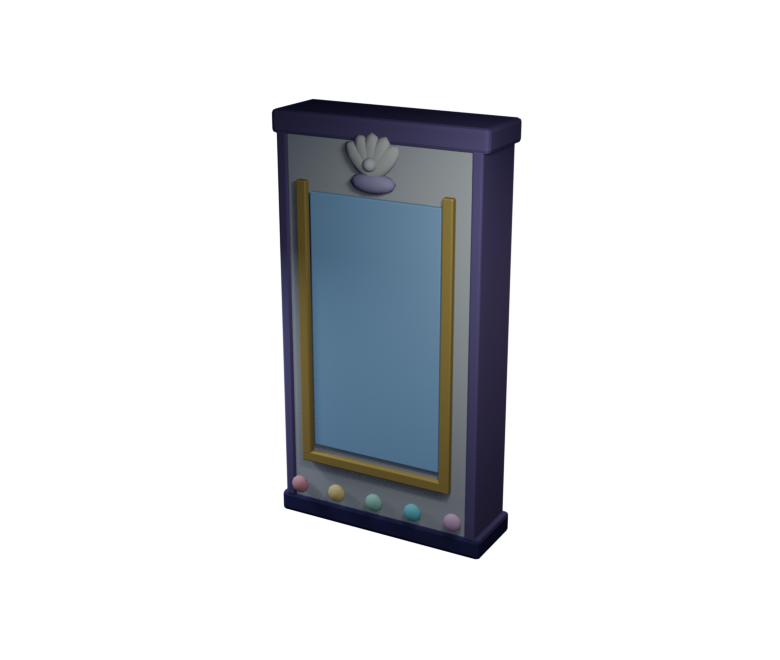
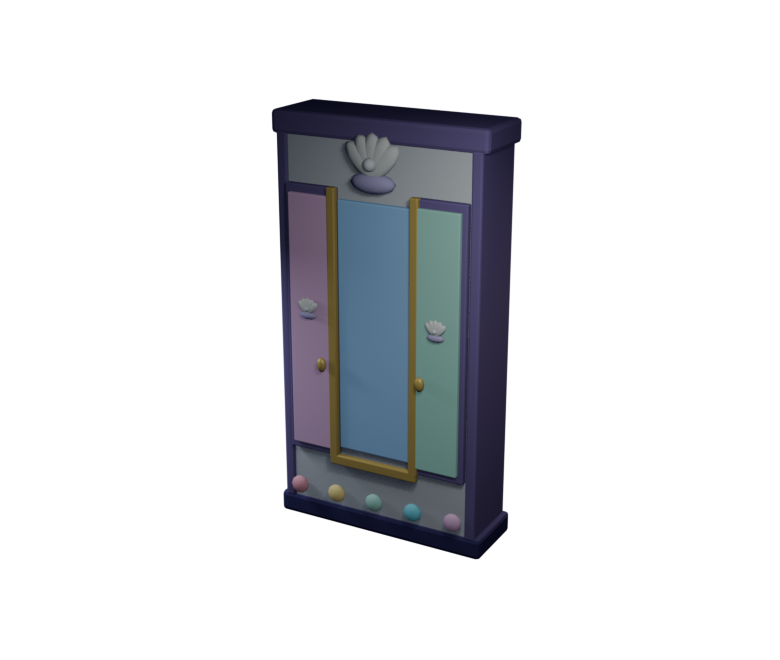
art: finish castle role readability polish

Changed region(s): [[0.3692, 0.2727, 0.6154, 0.7576]]

diff --git a/tools/build_pearl_castle_kit.py b/tools/build_pearl_castle_kit.py
@@ -32,6 +32,7 @@ bpy.context.preferences.filepaths.save_version = 0
 
 PALETTE = {
 	"ink": (0.10, 0.08, 0.22, 1.0),
+	"midnight": (0.11, 0.18, 0.32, 1.0),
 	"plum": (0.31, 0.22, 0.43, 1.0),
 	"lavender": (0.66, 0.55, 0.76, 1.0),
 	"pearl_shadow": (0.72, 0.70, 0.79, 1.0),
@@ -852,17 +853,28 @@ def build_bedside_table() -> bpy.types.Object:
 
 def build_wardrobe() -> bpy.types.Object:
 	r = root("pearl_shell_wardrobe")
-	# Pearl owns the cabinet silhouette. Dark trim is structural, not a sealed
-	# wrapper, so side views no longer collapse into one navy rectangle.
+	# A central dress-up mirror is flanked by two unmistakable cabinet doors.
+	# The earlier full-width mirror passed material checks but did not read as a
+	# wardrobe in the gameplay view.
 	rounded_box("Wardrobe_PearlBody", (0.0, 0.0, 6.55), (6.65, 2.12, 12.75), MATS["pearl"], r, 0.32)
 	rounded_box("Wardrobe_InkPlinth", (0.0, 0.0, 0.34), (7.10, 2.28, 0.68), MATS["ink"], r, 0.22)
 	rounded_box("Wardrobe_PlumCornice", (0.0, 0.0, 12.78), (7.10, 2.28, 0.72), MATS["plum"], r, 0.24)
 	for x in (-3.20, 3.20):
 		rounded_box("Wardrobe_PlumSide", (x, -0.04, 6.55), (0.34, 2.18, 11.90), MATS["plum"], r, 0.10)
-	rounded_box("Wardrobe_Mirror", (0.0, -1.14, 6.75), (4.35, 0.18, 8.15), MATS["sky"], r, 0.18)
-	for x in (-2.42, 2.42):
-		rounded_box("Wardrobe_GoldFrame", (x, -1.24, 6.75), (0.34, 0.22, 8.82), MATS["gold"], r, 0.09)
-	rounded_box("Wardrobe_GoldSill", (0.0, -1.24, 2.26), (5.18, 0.22, 0.34), MATS["gold"], r, 0.09)
+	for index, (x, color) in enumerate(((-2.16, "rose"), (2.16, "mint"))):
+		rounded_box("Wardrobe_DoorFrame_%d" % index, (x, -1.15, 6.75),
+			(1.72, 0.24, 8.55), MATS["plum"], r, 0.16)
+		rounded_box("Wardrobe_Door_%d" % index, (x, -1.31, 6.75),
+			(1.38, 0.18, 8.05), MATS[color], r, 0.15)
+		shell_fan("Wardrobe_DoorShell_%d" % index, (x, -1.47, 7.20), 0.62, r,
+			lobe_mat=MATS["pearl_light"], shadow_mat=MATS["lavender"])
+		ellipsoid("Wardrobe_DoorHandle_%d" % index,
+			(x - (0.48 if x > 0.0 else -0.48), -1.54, 5.55),
+			(0.16, 0.12, 0.24), MATS["gold"], r)
+	rounded_box("Wardrobe_Mirror", (0.0, -1.18, 6.75), (2.42, 0.20, 7.90), MATS["sky"], r, 0.18)
+	for x in (-1.38, 1.38):
+		rounded_box("Wardrobe_GoldFrame", (x, -1.30, 6.75), (0.28, 0.22, 8.62), MATS["gold"], r, 0.08)
+	rounded_box("Wardrobe_GoldSill", (0.0, -1.30, 2.40), (3.00, 0.22, 0.32), MATS["gold"], r, 0.09)
 	shell_fan("Wardrobe_Crest", (0.0, -1.27, 11.72), 1.62, r,
 		lobe_mat=MATS["pearl_light"], shadow_mat=MATS["lavender"])
 	for index, color in enumerate(("coral", "yellow", "mint", "aqua", "rose")):
@@ -947,6 +959,40 @@ def build_opera_gate() -> bpy.types.Object:
 		ellipsoid("Opera_Footlight_%d" % index,
 			(-2.20 + float(index) * 1.10, -1.18, 0.92),
 			(0.22, 0.18, 0.22), MATS[color], r)
+	return r
+
+
+def build_opera_vista() -> bpy.types.Object:
+	"""An opaque magical destination field for the Opera threshold."""
+	r = root("pearl_opera_vista")
+	outer = [(-2.72, 0.72), (-2.72, 5.36)]
+	inner = [(-2.42, 0.88), (-2.42, 5.28)]
+	for index in range(15):
+		a = math.pi - math.pi * float(index) / 14.0
+		outer.append((math.cos(a) * 2.72, 5.36 + math.sin(a) * 2.72))
+		inner.append((math.cos(a) * 2.42, 5.28 + math.sin(a) * 2.42))
+	outer.append((2.72, 0.72))
+	inner.append((2.42, 0.88))
+	panel_xz("OperaVista_Ink", outer, 0.30, (0.0, 0.34, 0.0), MATS["ink"], r, 0.10)
+	panel_xz("OperaVista_Midnight", inner, 0.24, (0.0, 0.12, 0.0), MATS["midnight"], r, 0.08)
+	# Cool nested stage-light bands create depth without exposing the wall behind.
+	for radius, color in ((2.08, "aqua"), (1.72, "mint"), (1.36, "rose")):
+		arc_tube("OperaVista_Arch_%s" % color, (0.0, -0.08, 5.20),
+			radius, 0.11, MATS[color], r, steps=15)
+	# A shell-shaped footlight and offset stars avoid a flat portal rectangle.
+	shell_fan("OperaVista_FloorShell", (0.0, -0.10, 1.42), 1.18, r,
+		lobe_mat=MATS["pearl_light"], shadow_mat=MATS["lavender"])
+	for index, (x, z, scale, color) in enumerate((
+		(-1.62, 3.20, 0.34, "yellow"), (1.54, 4.18, 0.28, "aqua"),
+		(-0.82, 6.18, 0.22, "rose"), (0.92, 2.68, 0.20, "mint"),
+	)):
+		points = []
+		for point_index in range(10):
+			a = math.pi * 0.5 + float(point_index) * math.pi / 5.0
+			radius = scale if point_index % 2 == 0 else scale * 0.44
+			points.append((x + math.cos(a) * radius, z + math.sin(a) * radius))
+		panel_xz("OperaVista_Star_%d" % index, points, 0.16,
+			(0.0, -0.12, 0.0), MATS[color], r, 0.04)
 	return r
 
 
@@ -1070,16 +1116,42 @@ def build_pantry_shelf() -> bpy.types.Object:
 		rounded_box("PantryShelf_Post", (x, 0.0, 4.0), (0.46, 1.55, 8.0), MATS["pearl"], r, 0.14)
 	for z in (0.42, 3.15, 5.85, 8.15):
 		rounded_box("PantryShelf_Board", (0.0, 0.0, z), (10.8, 1.82, 0.42), MATS["plum"], r, 0.14)
-	for row, z in enumerate((1.22, 3.94, 6.66)):
-		for index, color in enumerate(("coral", "yellow", "mint", "sky")):
-			x = -3.72 + float(index) * 2.48
-			jar_height = 1.02 + float((row + index) % 3) * 0.16
-			cylinder("PantryJar_%d_%d" % (row, index), (x, -0.18, z), 0.50, jar_height,
-				MATS[color], r, 14)
-			cylinder("PantryJarLid_%d_%d" % (row, index), (x, -0.18, z + jar_height * 0.5 + 0.10), 0.54, 0.20,
-				MATS["gold"], r, 14)
-			ellipsoid("PantryJarPearl_%d_%d" % (row, index),
-				(x, -0.70, z), (0.16, 0.09, 0.16), MATS["pearl_light"], r)
+	# Bottom shelf: labeled parcels and a soft provision sack.
+	for index, (x, color, width, height) in enumerate((
+		(-3.72, "coral", 1.55, 1.28), (-1.34, "yellow", 1.90, 1.52),
+		(1.30, "mint", 1.62, 1.18),
+	)):
+		z = 0.66 + height * 0.5
+		rounded_box("Pantry_Parcel_%d" % index, (x, -0.10, z),
+			(width, 1.32, height), MATS[color], r, 0.22)
+		ellipsoid("Pantry_ParcelLabel_%d" % index,
+			(x, -0.82, z), (0.20, 0.10, 0.20), MATS["pearl_light"], r)
+	ellipsoid("Pantry_Sack", (3.62, -0.06, 1.56), (1.08, 0.72, 1.18), MATS["lavender"], r)
+	tube("Pantry_SackTie", [(3.30, -0.60, 2.45), (3.62, -0.72, 2.70),
+		(3.94, -0.60, 2.45)], 0.08, MATS["gold"], r)
+	# Middle shelf: two handled baskets flank one tall bottle.
+	for index, (x, color, width) in enumerate(((-3.16, "rose", 2.35), (2.78, "aqua", 2.15))):
+		rounded_box("Pantry_Basket_%d" % index, (x, -0.10, 4.02),
+			(width, 1.36, 1.34), MATS[color], r, 0.24)
+		tube("Pantry_BasketHandle_%d" % index,
+			[(x - width * 0.28, -0.86, 4.34), (x, -0.98, 4.92),
+				(x + width * 0.28, -0.86, 4.34)], 0.07, MATS["gold"], r)
+	cone("Pantry_Bottle", (0.02, -0.08, 4.18), 0.56, 0.34, 1.86, MATS["mint"], r, 14)
+	cylinder("Pantry_BottleStopper", (0.02, -0.08, 5.20), 0.30, 0.22, MATS["gold"], r, 12)
+	# Top shelf keeps jars, but varies silhouette, scale, spacing, and color.
+	for index, (x, color, radius, height) in enumerate((
+		(-4.02, "sky", 0.44, 1.28), (-2.18, "yellow", 0.58, 1.62),
+		(0.08, "rose", 0.48, 1.18), (2.08, "mint", 0.62, 1.48),
+		(4.08, "coral", 0.42, 1.06),
+	)):
+		z = 6.08 + height * 0.5
+		cylinder("Pantry_Jar_%d" % index, (x, -0.12, z), radius, height,
+			MATS[color], r, 14)
+		cylinder("Pantry_JarLid_%d" % index,
+			(x, -0.12, z + height * 0.5 + 0.10), radius + 0.05, 0.20,
+			MATS["gold"], r, 14)
+		ellipsoid("Pantry_JarLabel_%d" % index,
+			(x, -0.72, z), (0.16, 0.09, 0.16), MATS["pearl_light"], r)
 	shell_fan("PantryShelf_Crest", (0.0, -0.92, 8.20), 1.25, r,
 		lobe_mat=MATS["pearl_light"], shadow_mat=MATS["lavender"])
 	return r
@@ -1268,6 +1340,7 @@ ASSETS = {
 	"pearl_music_bar_6": build_music_bar(6),
 	"pearl_music_mallet_stand": build_music_mallet_stand(),
 	"pearl_opera_gate": build_opera_gate(),
+	"pearl_opera_vista": build_opera_vista(),
 	"pearl_storage_barrel": build_storage_barrel(),
 	"pearl_storage_crate": build_storage_crate(),
 	"pearl_provisions_hutch": build_provisions_hutch(),

diff --git a/CASTLE_PEARL_ART_AUDIT_2026-07-18.md b/CASTLE_PEARL_ART_AUDIT_2026-07-18.md
@@ -230,6 +230,40 @@ bays, aligns the treasure arch along the actual review ray, changes the Opera
 field to deep aqua-plum, and adds a nineteenth wardrobe-front capture. Rejected
 frames are retained under `runtime_rejected_37c238a/`.
 
+## Sixth Runtime Review And Role-Readability Correction
+
+CI run `29667302052` was fully green at commit `affb617`, including import,
+the full analyzer, all trusted gameplay probes, and nineteen Mobile castle
+captures. Human inspection accepted the Grand Hall, throne focal area, Toy
+Room, Cloud Lounge, Star Chamber, bedroom bed, music room, Royal Loo anatomy,
+undercroft facing, and treasure niche alignment. Promotion was still rejected
+because several assets succeeded structurally but did not read as their runtime
+roles from the reviewed player views.
+
+The failed items were specific. The Opera field stayed transparent enough to
+show masonry, so it read as a painted wall rather than a destination. The
+wardrobe evidence read primarily as a large mirror, not dress-up storage. The
+pantry shelf used repeated cylinders instead of varied stored goods. The
+entrance gate area exposed a broad flat mauve wall around a high-value exit
+motif.
+
+The fifty-eight-asset correction adds `pearl_opera_vista.glb`, an opaque
+midnight stage-depth panel with nested cool arches, shell footlights, and
+offset stars. It remodels `pearl_shell_wardrobe.glb` with side cabinet doors,
+gold handles, shell door marks, swatches, and a narrower mirror. It remodels
+`pearl_pantry_shelf.glb` with labeled parcels, sacks, handled baskets, bottles,
+and varied jar sizes. The entrance wall now receives shallow painted-stone
+facing panels plus paired shell banners so the exit gate belongs to the room
+instead of floating on a plain wall.
+
+All fifty-eight exported GLBs remain one static mesh each, texture-free and
+Mobile-safe. The parsed kit range is 560-5,768 triangles with no animations,
+skins, embedded images, or texture slots. The three final-polish targets are
+3,596 triangles for the Opera vista, 4,704 for the pantry shelf, and 3,644 for
+the wardrobe. Rejected frames are retained under `runtime_rejected_affb617/`;
+the two superseded runtime GLBs are retained under
+`backups/art_pre_castle_final_polish_2026-07-18/`.
+
 ## Toilet Correction
 
 The toilet now has a continuous rear ceramic skirt between cistern and bowl, a
@@ -256,18 +290,19 @@ count is 8,412 triangles with zero exported degenerate triangles.
 
 ## Current Rating
 
-The fifty-seven generated models and isolated renders meet the project's
+The fifty-eight generated models and isolated renders meet the project's
 structural and isolated-visual candidate gate. They are designed as 5/5
-replacements, but final 5/5 status is not self-awarded: the camera-integrity,
-undercroft, treasure-niche, Opera, and wardrobe-evidence corrections still
+replacements, but final 5/5 status is not self-awarded: the final-polish
+entrance-wall, Opera-vista, pantry, and wardrobe corrections still
 require replacement in-game Mobile captures, gameplay-scale inspection, and
 owner acceptance.
-Particular review attention should go to the open Opera passage, bedroom bed
-framing, undercroft hutch/cart visibility, toilet side anatomy, fountain route
-clearance, and repeated arch density.
+Particular review attention should go to the opaque Opera destination read,
+wardrobe storage identity, pantry silhouette variety, entrance wall treatment,
+toilet side anatomy, fountain route clearance, and repeated arch density.
 
 The prior files are preserved in
 `backups/art_pre_castle_pearl_2026-07-18/castle_pre_pearl_assets.zip` for
 full pre-pass reversal. The fifteen GLBs superseded by the third review are also
 preserved under `backups/art_pre_castle_visibility_2026-07-18/` for direct
-file-by-file reversal.
+file-by-file reversal. The two GLBs superseded by the sixth review are
+preserved under `backups/art_pre_castle_final_polish_2026-07-18/`.

diff --git a/assets/OBJECT_GENERATION_AUDIT_LOG.md b/assets/OBJECT_GENERATION_AUDIT_LOG.md
@@ -320,6 +320,37 @@ Most frequent failures:
 - Required test: approach view with visible hutch/cart/crate/barrel fronts,
   chest-aligned arch, deep Opera portal field, and wardrobe-front capture.
 
+### A16 - Pearl Castle role-readability and room-treatment correction
+
+- Source and commit: nineteen-view Mobile capture from commit `affb617`, CI
+  run `29667302052`; corrected branch `codex/castle-rainbow-shell-5of5`.
+- Scope: Opera threshold destination read, Royal Bedroom wardrobe identity,
+  pantry shelf contents, and entrance exit-wall treatment.
+- Evidence class: E3 fixed Mobile runtime frames cross-checked against E2
+  parsed GLB measurements and isolated Blender renders.
+- Findings independently verified: the same asset can pass export, import,
+  placement-count, and isolated-render checks while still failing its in-game
+  role. The Opera field transmitted masonry and read as a painted wall; the
+  wardrobe capture read primarily as a giant mirror; the pantry shelf reduced
+  to repeated cylinders; and a high-value exit motif sat in a broad flat mauve
+  wall instead of a treated castle surface.
+- Findings accepted: object role must read from the gameplay view, not only
+  from the asset name or isolated render. Container variety requires silhouette
+  and organization variance, not color changes alone. Magical destinations need
+  an opaque authored value field when the wall behind remains visible.
+  Structural facing surfaces around focal gates need the same material treatment
+  and motif care as the rooms they connect.
+- Findings accepted as proposals only: the fifty-eight-asset kit, opaque Opera
+  vista, remodeled wardrobe, remodeled pantry, and entrance facing panels remain
+  candidates pending replacement Mobile frames and owner review.
+- Findings rejected or superseded: green CI, nonblank nineteen-view evidence,
+  and successful isolated renders do not prove role readability. An invalid
+  gameplay camera or sightline cannot be rescued by a strong isolated model.
+- New rules: none; reinforces R-GOV4, R-ROLE1, R-ROLE3, R-REP1, R-MOT4,
+  R-MAT3, R-QA4, R-QA5, R-QA7, and R-QA8.
+- Required test: Mobile views proving opaque Opera destination depth, wardrobe
+  storage identity, pantry silhouette variety, and treated entrance-wall framing.
+
 ## Consolidated generation rules
 
 These rule IDs are stable. Reference them in manifests and review notes.
@@ -538,7 +569,7 @@ Create this packet for every role before generating. Missing fields block the
 role.
 
 ```text
-audit_log_version: 2026-07-18-v4
+audit_log_version: 2026-07-18-v7
 asset_id:
 role_name:
 role_type: prop | kit_piece | texture | sprite | interactive | composition
@@ -613,6 +644,10 @@ add a dated correction identifying the stronger evidence or owner decision.
 
 ## Log history
 
+- **2026-07-18-v7:** Added the green `affb617` role-readability rejection,
+  expanded the Pearl Castle kit from fifty-seven to fifty-eight props, and
+  required runtime proof for opaque magical destinations, wardrobe identity,
+  pantry content variety, and focal wall treatment.
 - **2026-07-18-v6:** Added the green `37c238a` orientation/portal-depth
   rejection and required gameplay-facing decoration, foreground negative space,
   perspective-aligned backdrops, and an explicit wardrobe-front capture.

diff --git a/backups/art_pre_castle_final_polish_2026-07-18/README.md b/backups/art_pre_castle_final_polish_2026-07-18/README.md
@@ -1,0 +1,30 @@
+# Pearl Castle Final-Polish Rollback
+
+Created: 2026-07-18
+
+Source commit: `affb617d2323ef9ddb3d22c12d678efb9e02a35c`
+
+This archive preserves the two runtime GLBs replaced by the final-polish pass
+after the `affb617` Mobile review. These files are kept under `backups/` and
+are not loaded by the game.
+
+## Files
+
+| Archived file | Original runtime path | SHA-256 |
+|---|---|---|
[2 lines of base64/hex data omitted]
+
+## Rollback
+
+To inspect the exact pre-polish source code and scene state, use:
+
+```powershell
+git show affb617d2323ef9ddb3d22c12d678efb9e02a35c:tools/build_pearl_castle_kit.py
+git show affb617d2323ef9ddb3d22c12d678efb9e02a35c:scripts/arena/castle_hall.gd
+git show affb617d2323ef9ddb3d22c12d678efb9e02a35c:scripts/probe_castle_pearl_art.gd
+```
+
+The final-polish pass supersedes these two GLBs with a clearer wardrobe role
+and a pantry shelf whose contents vary by silhouette and organization, not
+only by color.

diff --git a/assets_src/blender/qa_pearl_castle_kit/RUNTIME_EVIDENCE.md b/assets_src/blender/qa_pearl_castle_kit/RUNTIME_EVIDENCE.md
@@ -49,6 +49,19 @@ Opera veil revealed glowing stone rather than reading as a destination. The
 wardrobe front was also outside the evidence radius. These frames are retained
 as the negative control for orientation, portal-depth, and sightline alignment.
 
+## `runtime_rejected_affb617/`
+
+Sixth nineteen-view Mobile capture from fully green CI run `[phone redacted]`.
+The undercroft facing, treasure niche, Royal Loo, bedroom bed, music room, toy
+room, Cloud Lounge, and star chamber remained sound. Promotion was still
+rejected because the transparent Opera field transmitted masonry and read as a
+painted wall, the wardrobe evidence still read primarily as a giant mirror
+rather than a dress-up storage object, the pantry shelf reduced to repeated
+cylinders, and the entrance motif frame exposed a broad flat mauve wall around
+the exit gate. These frames are retained as the negative control for role
+readability, container variety, opaque destination fields, and full-room
+material treatment.
+
 ## Final Candidate
 
 The final nineteen-view Mobile evidence belongs in a sibling folder named

diff --git a/ASSET_LICENSES.md b/ASSET_LICENSES.md
@@ -37,11 +37,12 @@
 | gen2/generated/bathroom_bathtub/concept.jpg, gen2/generated/bathroom_sink/concept.jpg, gen2/generated/bathroom_toilet/concept.jpg, assets_src/blender/references/bathroom_bathtub_turnaround.png, assets_src/blender/references/bathroom_sink_turnaround.png, assets_src/blender/references/bathroom_toilet_art_turnaround.png | OpenAI ChatGPT image generation guided by the Royal Kitchen screenshot, approved fixture concepts, and the owner's earlier toilet artwork (used as reference but not redistributed) | **Project-generated art** | - | isolated concepts plus consistent multi-view modeling turnarounds; normalized to at most 1024px; generated 2026-07-16 |
 | assets/castle/bathroom_bathtub.glb, assets/castle/bathroom_sink.glb, assets/castle/bathroom_toilet.glb | Project-authored Blender 4.4.3 geometry converted from the approved image-generated concepts and turnarounds | **Project-generated art** | assets_src/blender/references/bathroom_*_turnaround.png | exact-size static meshes; 27,995 triangles and 43 consolidated material-role nodes total; toilet rear skirt and molded S-trap corrected 2026-07-18; bespoke embedded surfaces with no kitchen texture reuse; zero near-degenerate faces at the Godot audit threshold; no armature, animation, light, or physics body |
 | assets_src/blender/bathroom_bathtub_v2.blend, assets_src/blender/bathroom_sink_v2.blend, assets_src/blender/bathroom_toilet_v2.blend, assets_src/blender/qa_bathroom_props/*.png | Project-authored Blender sources, Eevee review renders, and in-game QA captures for the Royal Bathroom fixture set | **Project-generated source/review art** | tools/build_bathroom_props.py, tools/build_bathroom_bathtub_v2.py, tools/build_bathroom_sink_v2.py, tools/build_bathroom_toilet_v2.py, scripts/probe_bathroom_integration.gd | editable per-fixture source scenes, polished material renders, and live Level 2 placement captures; generated 2026-07-16; toilet source and isolated render revised 2026-07-18 |
-| assets/castle/pearl_kit/*.glb | Project-authored Blender 4.4.3 pearl-castle architecture and furnishing kit guided by the source-book style guide and consolidated human/AI audits | **Project-generated art** | tools/build_pearl_castle_kit.py; CASTLE_PEARL_ART_AUDIT_2026-07-18.md | fifty-seven exact-size, texture-free Mobile props covering architecture, water and Opera thresholds, lighting, seating, non-plush toys, library, royal bedroom, seven playable music keys, varied provisions/storage, pantry, craft, bath, and non-plush keepsakes; one runtime mesh each; 560-6,104 triangles; generated and expanded 2026-07-18 |
+| assets/castle/pearl_kit/*.glb | Project-authored Blender 4.4.3 pearl-castle architecture and furnishing kit guided by the source-book style guide and consolidated human/AI audits | **Project-generated art** | tools/build_pearl_castle_kit.py; CASTLE_PEARL_ART_AUDIT_2026-07-18.md | fifty-eight exact-size, texture-free Mobile props covering architecture, water and Opera thresholds, lighting, seating, non-plush toys, library, royal bedroom, seven playable music keys, varied provisions/storage, a remodeled pantry, craft, bath, non-plush keepsakes, and an opaque modeled Opera vista; one runtime mesh each; 560-5,768 triangles; generated and expanded 2026-07-18 |
 | assets_src/blender/pearl_castle_kit.blend, assets_src/blender/qa_pearl_castle_kit/*.png, assets_src/blender/qa_pearl_castle_kit/runtime_*/*.png | Editable Blender source, isolated Eevee QA renders, and labeled Mobile runtime review evidence for the pearl-castle kit | **Project-generated source/review art** | tools/build_pearl_castle_kit.py; scripts/probe_castle_pearl_art.gd | complete deterministic source scene plus one 780x660 render per runtime GLB; rejected runtime captures retained outside runtime loading for comparison; generated 2026-07-18 |
 | backups/art_pre_castle_pearl_2026-07-18/** | Byte-exact pre-pass toilet, source, QA render, hall script, and builder archive | **Same license as each archived source** | Git commit 9943f16; backups/art_pre_castle_pearl_2026-07-18/README.md | reversible ZIP with repository-relative paths and SHA-256 manifest; created 2026-07-18 |
 | backups/art_pre_castle_visibility_2026-07-18/** | Rejected pearl-castle material-visibility source/runtime snapshot retained for direct rollback and review comparison | **Project-generated archive** | Git commit 50b1907; backups/art_pre_castle_visibility_2026-07-18/README.md | SHA-256 recorded full forty-nine-asset/source/code ZIP plus fifteen extracted prior runtime GLBs whose nested dark outline shells were superseded after Mobile review; excluded from runtime loading by backup path; archived 2026-07-18 |
 | backups/art_pre_castle_opera_2026-07-18/** | Rejected primitive Opera gate source reference retained for direct visual rollback | **Project-generated archive** | Git commit 2227031; backups/art_pre_castle_opera_2026-07-18/README.md | documents the gold-box/crimson-panel/Label3D blockout superseded by the authored shell-theatre gate; excluded from runtime loading by backup path; archived 2026-07-18 |
+| backups/art_pre_castle_final_polish_2026-07-18/** | Rejected `affb617` wardrobe and pantry runtime GLBs retained for direct rollback and review comparison | **Project-generated archive** | Git commit affb617; backups/art_pre_castle_final_polish_2026-07-18/README.md | SHA-256 recorded two superseded GLBs whose isolated renders were valid but failed runtime role/readability review; excluded from runtime loading by backup path; archived 2026-07-18 |
 | assets/nature/*.glb | Kenney Nature Kit | **CC0** | kenney.nl | pastel-restyled at load (_toonify); plant_bush + grass_leafsLarge re-textured with project nano-banana sheets (tools/bake_nano_wrap.py, 2026-07-12) |
 | assets/ship/*.glb | Kenney Pirate Kit | **CC0** | kenney.nl | pastel-restyled at load |
 | assets/kits/castle/*.glb | Kenney Castle Kit | **CC0** | kenney.nl/assets/castle-kit | colormap embedded per piece (Blender re-export) |